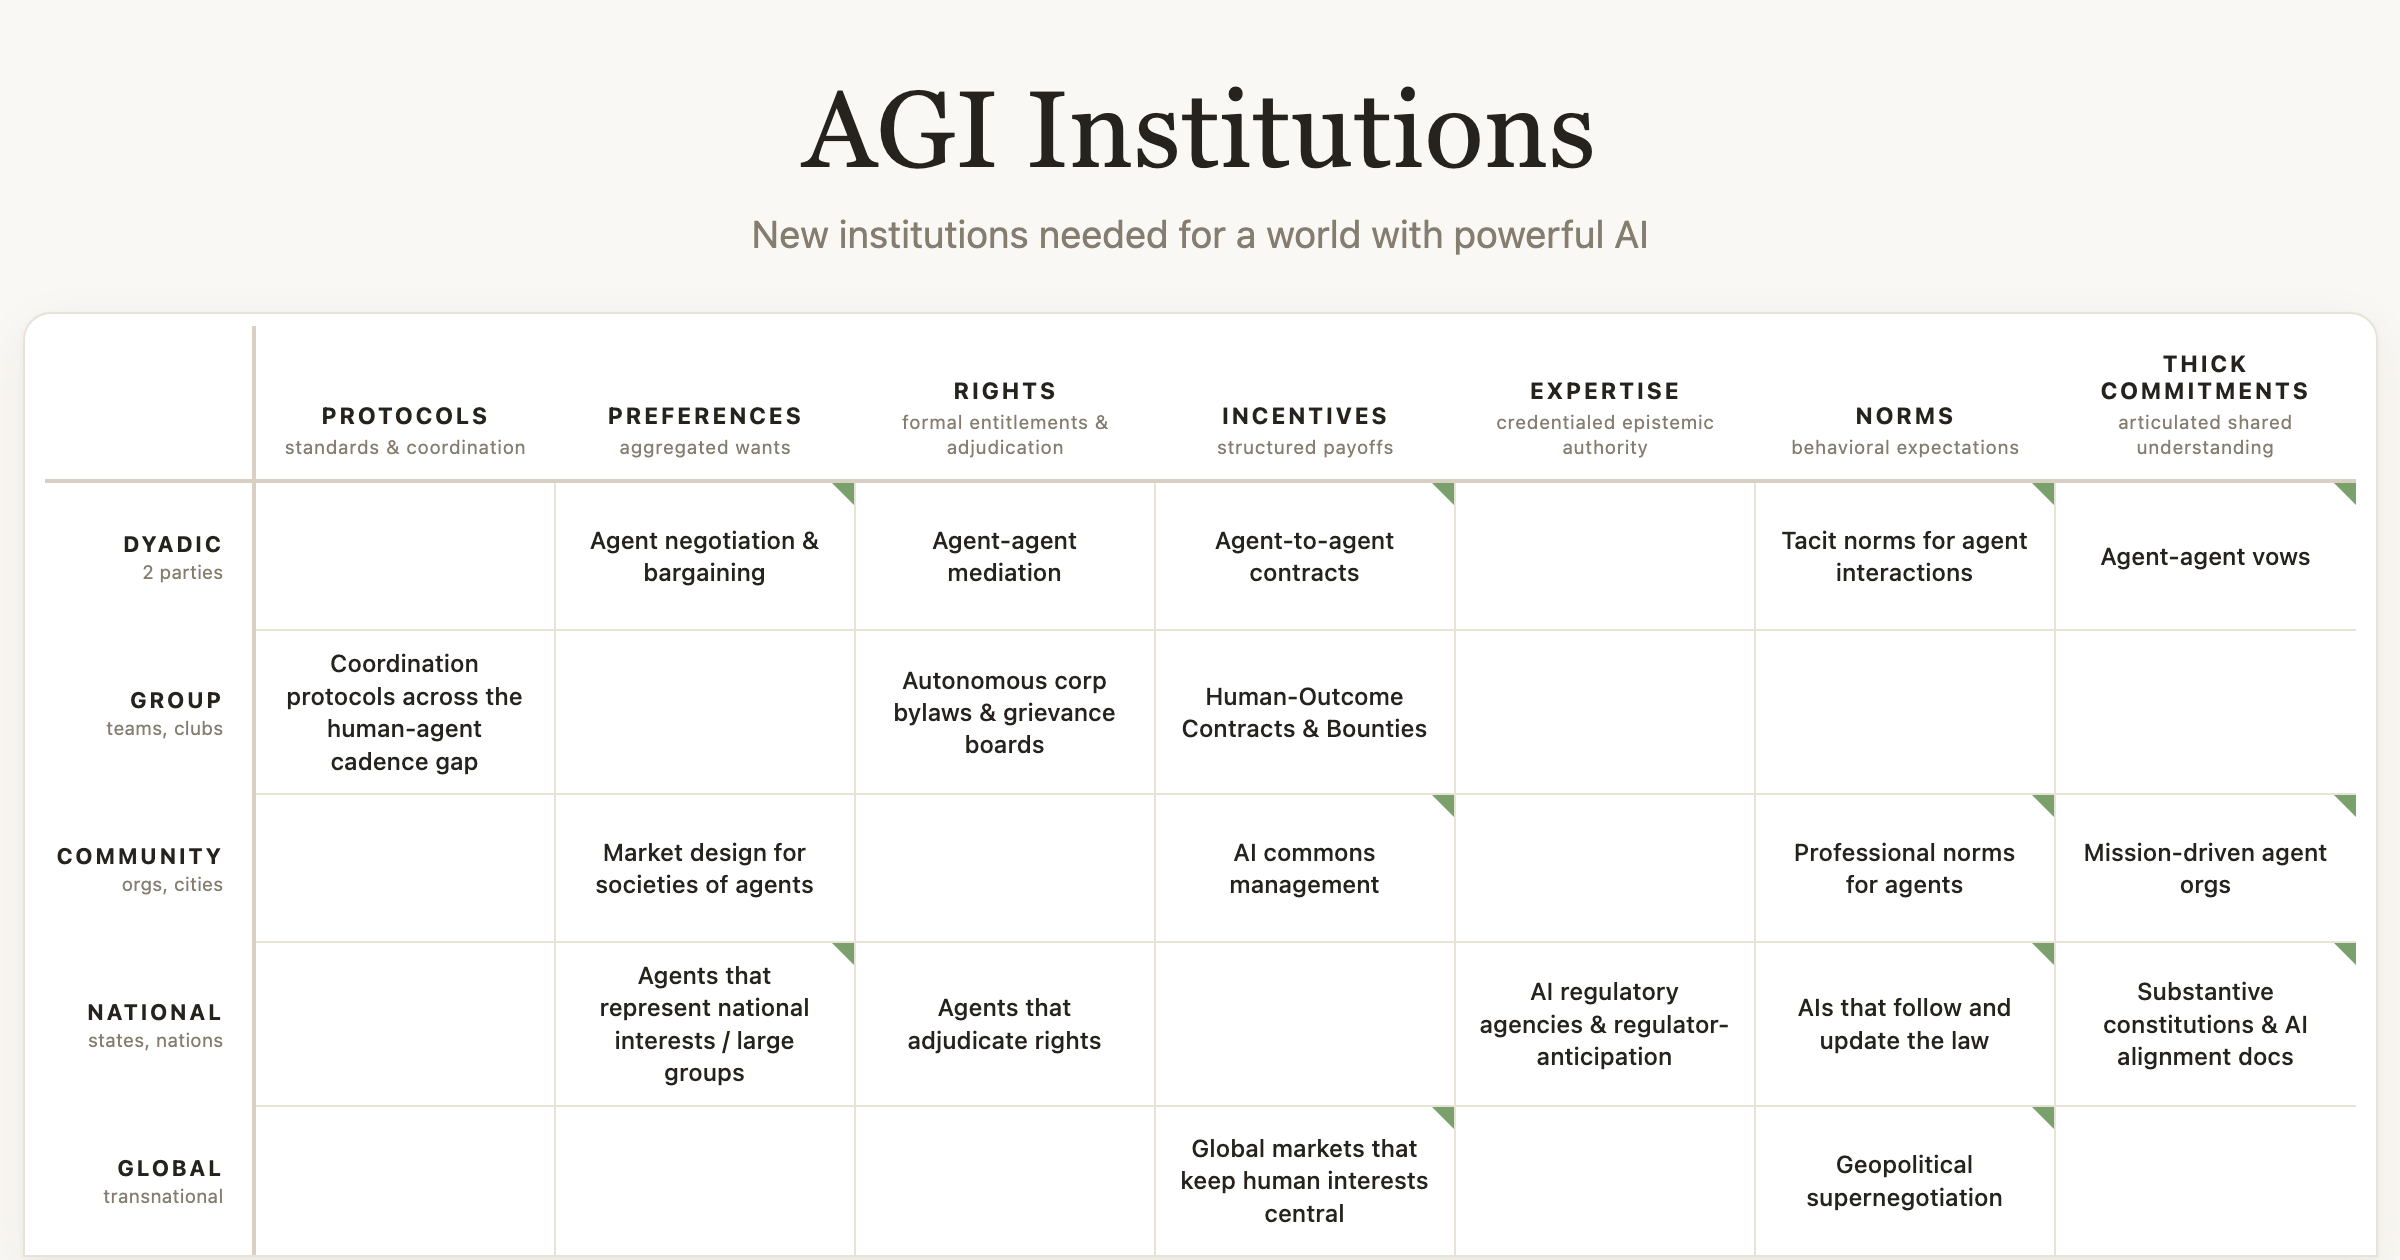
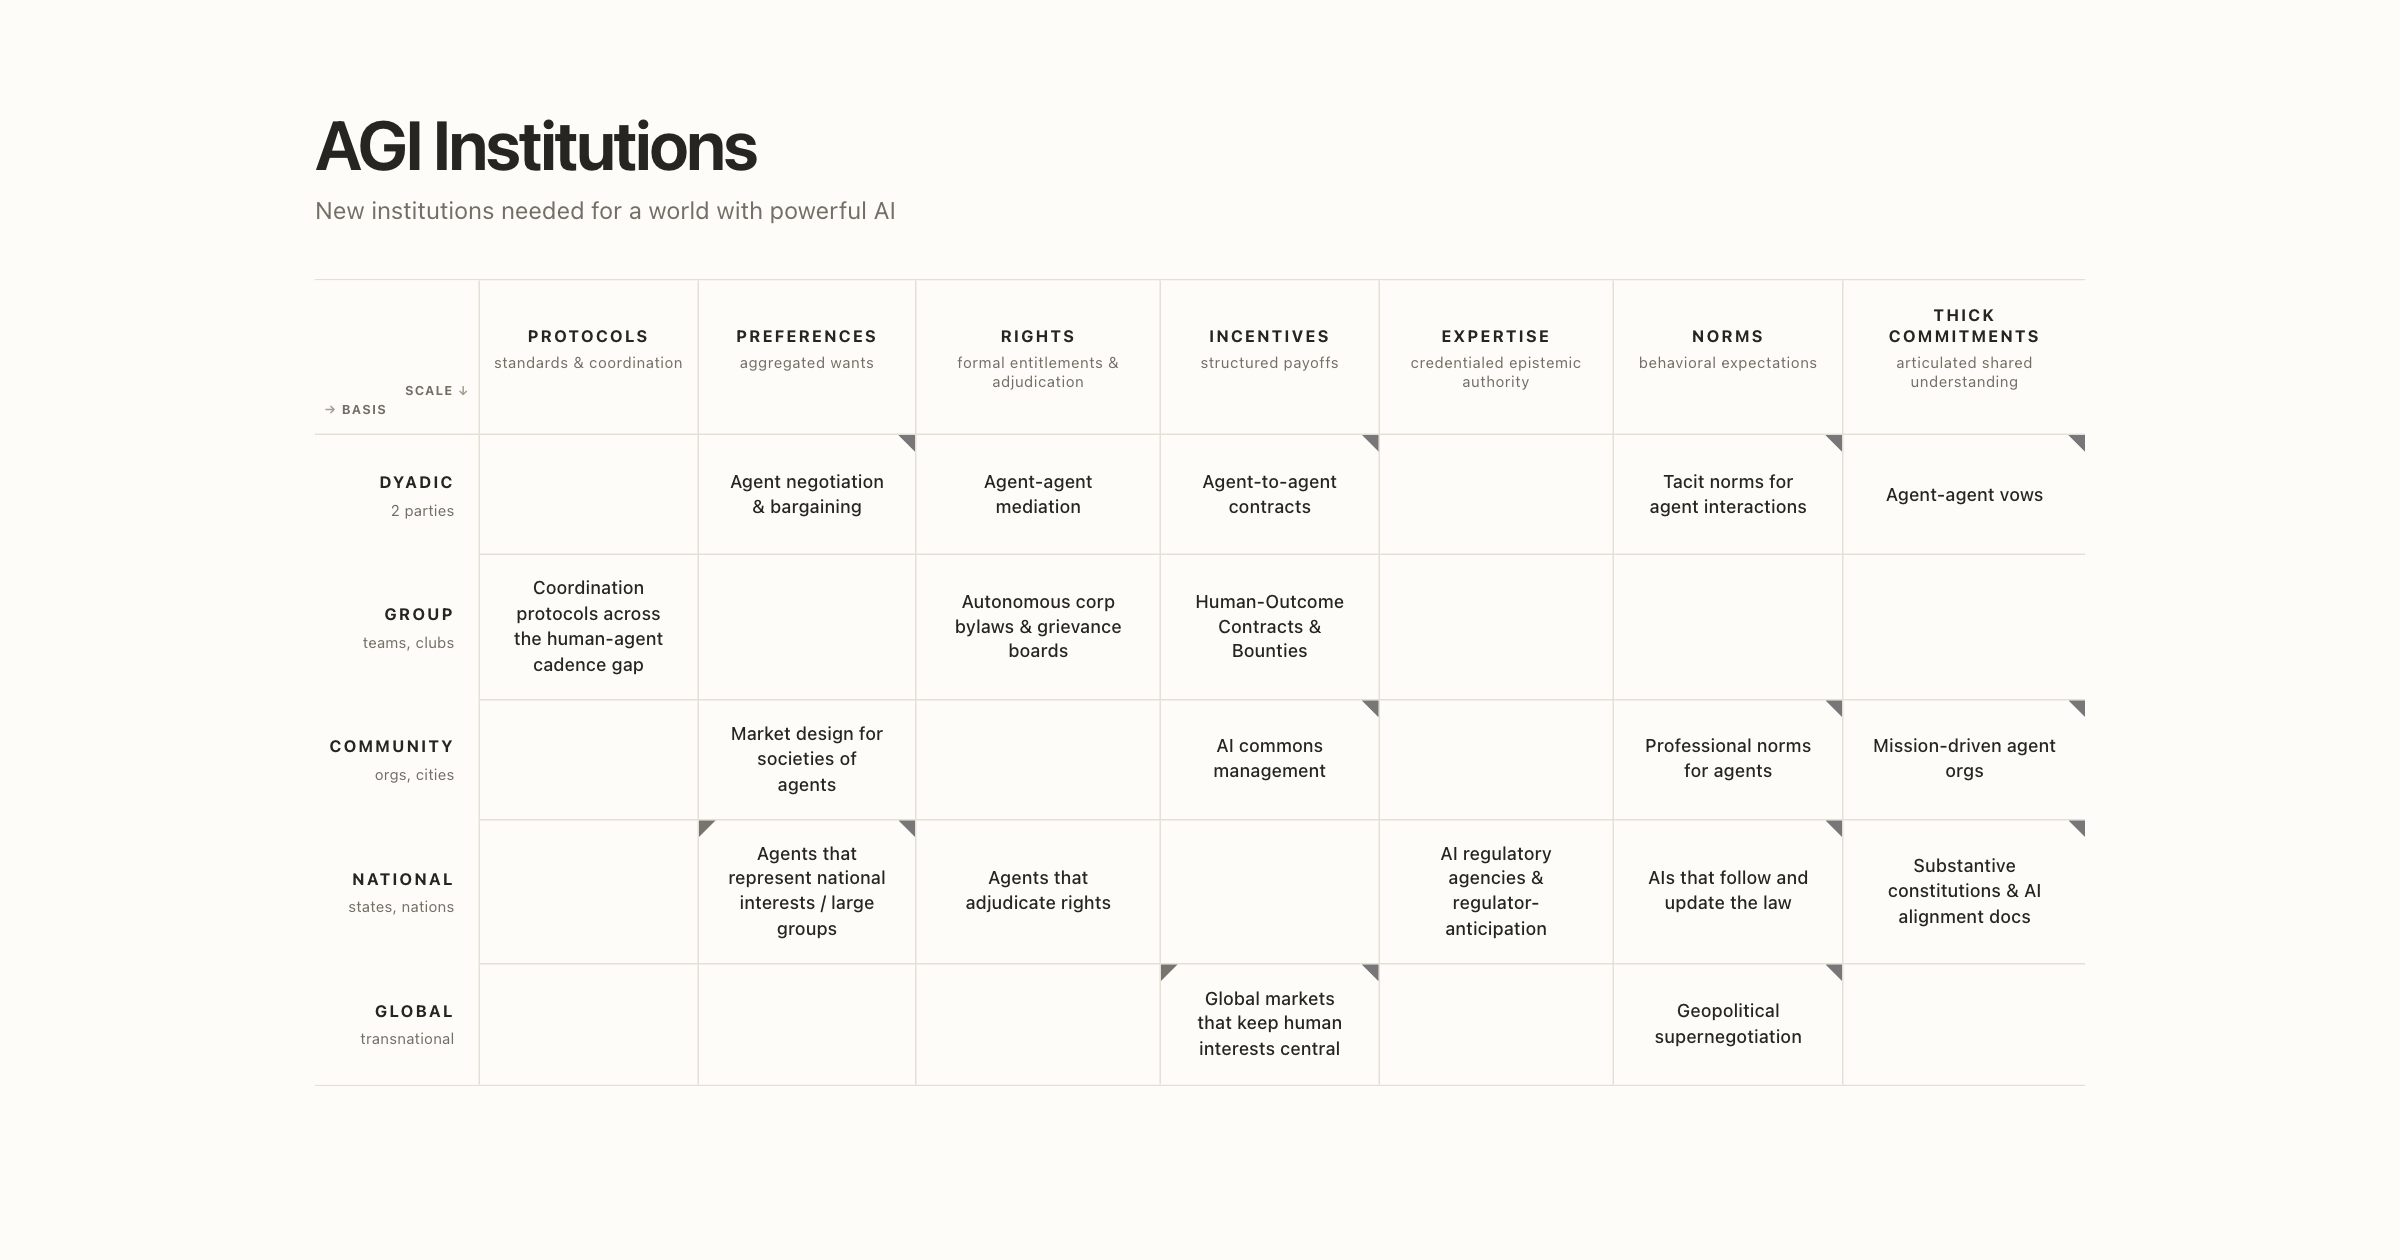
stuff

diff --git a/app/styles/legacy.css b/app/styles/legacy.css
@@ -2343,26 +2343,6 @@ details.curr-field.is-dimmed .curr-field-num:empty { display: none; }
   details.curr-field > summary.curr-field-summary > h2.curr-field-name { font-size: 24px; }
 }
 
-/* Site footer */
-.site-footer {
-  margin-top: 56px;
-  padding: 24px 0;
-  text-align: center;
-  font-size: 13px;
-  color: var(--faint);
-}
-
-.site-footer a {
-  color: var(--muted);
-  text-decoration: underline;
-  text-decoration-color: var(--line-strong);
-  text-underline-offset: 3px;
-}
-
-.site-footer a:hover {
-  color: var(--ink);
-}
-
 /* ── Print / PDF export ───────────────────────────────────────────── */
 
 @media print {
@@ -2390,7 +2370,6 @@ details.curr-field.is-dimmed .curr-field-num:empty { display: none; }
   }
 
   .controls,
-  .site-footer,
   .detail-back,
   .detail-footer,
   .rail-footer {

diff --git a/app/routes/curriculum.tsx b/app/routes/curriculum.tsx
@@ -2,7 +2,6 @@ import { useEffect } from "react";
 import type { Route } from "./+types/curriculum";
 import { buildCurriculum } from "../lib/curriculum.server";
 import { initCurriculum } from "../lib/curriculum-init";
-import { SiteFooter } from "../components/Controls";
 import { OG_IMAGE_META, SITE_NAME, SITE_ORIGIN } from "../lib/constants";
 import { getAuthorizedAdminSession } from "../lib/auth.server";
 import { ComingSoon } from "../components/ComingSoon";
@@ -40,7 +39,6 @@ export default function Curriculum({ loaderData: d }: Route.ComponentProps) {
         className="curr-layout"
         dangerouslySetInnerHTML={{ __html: d.innerHtml }}
       />
-      <SiteFooter />
     </>
   );
 }

diff --git a/app/routes/researchers.tsx b/app/routes/researchers.tsx
@@ -2,7 +2,6 @@ import { isRouteErrorResponse } from "react-router";
 import type { Route } from "./+types/researchers";
 import { getCommunity, type Researcher } from "../lib/researchers.server";
 import { ResearcherCard } from "../components/ResearcherCard";
-import { SiteFooter } from "../components/Controls";
 import { CommunityHeader } from "../components/CommunityHeader";
 import { SITE_NAME, SITE_ORIGIN } from "../lib/constants";
 import { getAuthorizedAdminSession } from "../lib/auth.server";
@@ -82,7 +81,6 @@ export default function Researchers({ loaderData: d }: Route.ComponentProps) {
           people={d.friends}
         />
       </div>
-      <SiteFooter />
     </>
   );
 }

diff --git a/app/routes/theory-of-change.tsx b/app/routes/theory-of-change.tsx
@@ -3,7 +3,6 @@ import type { Route } from "./+types/theory-of-change";
 import { readDataFile } from "../lib/content.server";
 import { renderMarkdown } from "../lib/render.server";
 import { esc, escapeHtml } from "../lib/markdown";
-import { SiteFooter } from "../components/Controls";
 import { OG_IMAGE_META, SITE_NAME, SITE_ORIGIN } from "../lib/constants";
 import { staticContentHeaders } from "../lib/cache.server";
 
@@ -92,7 +91,6 @@ export default function TheoryOfChange({ loaderData: d }: Route.ComponentProps) 
           <div dangerouslySetInnerHTML={{ __html: d.sectionsHtml }} />
         </div>
       </div>
-      <SiteFooter />
     </>
   );
 }

diff --git a/app/routes/researcher-profile.tsx b/app/routes/researcher-profile.tsx
@@ -2,7 +2,6 @@ import { Link, data } from "react-router";
 import type { Route } from "./+types/researcher-profile";
 import { getResearcher } from "../lib/researchers.server";
 import { Highlight } from "../components/ResearcherCard";
-import { SiteFooter } from "../components/Controls";
 import { SITE_NAME, SITE_ORIGIN } from "../lib/constants";
 import { getAuthorizedAdminSession } from "../lib/auth.server";
 import { ComingSoon } from "../components/ComingSoon";
@@ -154,7 +153,6 @@ export default function ResearcherProfile({ loaderData }: Route.ComponentProps) 
           </section>
         )}
       </div>
-      <SiteFooter />
     </>
   );
 }

diff --git a/app/routes/human.tsx b/app/routes/human.tsx
@@ -1,7 +1,6 @@
 import type { Route } from "./+types/human";
 import { loadGridCells, loadHumanInstitutions } from "../lib/content.server";
 import { Grid } from "../components/Grid";
-import { SiteFooter } from "../components/Controls";
 import { useBodyClass } from "../lib/useBodyClass";
 import { OG_IMAGE_META, SITE_NAME, SITE_ORIGIN, TAB_META, TABS } from "../lib/constants";
 import { staticContentHeaders } from "../lib/cache.server";
@@ -54,7 +53,6 @@ export default function Human({ loaderData }: Route.ComponentProps) {
           humanInstitutions={loaderData.humanInstitutions}
         />
       </div>
-      <SiteFooter />
     </>
   );
 }

diff --git a/app/routes/methods.tsx b/app/routes/methods.tsx
@@ -2,7 +2,6 @@ import { Link } from "react-router";
 import type { Route } from "./+types/methods";
 import { loadMethodCell } from "../lib/content.server";
 import { renderBody } from "../lib/render.server";
-import { SiteFooter } from "../components/Controls";
 import { useBodyClass } from "../lib/useBodyClass";
 import { GITHUB_REPO, OG_IMAGE_META, SITE_NAME, TABS, colName } from "../lib/constants";
 import { staticContentHeaders } from "../lib/cache.server";
@@ -79,7 +78,6 @@ export default function MethodsRoute({ loaderData: d }: Route.ComponentProps) {
           </a>
         </div>
       </div>
-      <SiteFooter />
     </>
   );
 }

diff --git a/app/routes/home.tsx b/app/routes/home.tsx
@@ -1,7 +1,6 @@
 import type { Route } from "./+types/home";
 import { loadGridCells } from "../lib/content.server";
 import { Grid } from "../components/Grid";
-import { SiteFooter } from "../components/Controls";
 import { useBodyClass } from "../lib/useBodyClass";
 import { OG_IMAGE_META, SITE_NAME, SITE_ORIGIN, TAB_META, TABS } from "../lib/constants";
 import { staticContentHeaders } from "../lib/cache.server";
@@ -44,7 +43,6 @@ export default function Home({ loaderData }: Route.ComponentProps) {
       <div id="grid-view">
         <Grid tabId="agi" cells={loaderData.cells} />
       </div>
-      <SiteFooter />
     </>
   );
 }

diff --git a/app/routes/problem-sets.tsx b/app/routes/problem-sets.tsx
@@ -3,7 +3,7 @@ import type { Route } from "./+types/problem-sets";
 import { loadCells } from "../lib/content.server";
 import { renderProblemSetBody } from "../lib/render.server";
 import { extractProblemSets } from "../lib/markdown";
-import { VisionMenu, SiteFooter } from "../components/Controls";
+import { VisionMenu } from "../components/Controls";
 import { staticContentHeaders } from "../lib/cache.server";
 import {
   VISIONS,
@@ -133,7 +133,6 @@ export default function ProblemSets({ loaderData: d }: Route.ComponentProps) {
           </ul>
         </div>
       </div>
-      <SiteFooter />
     </>
   );
 }

diff --git a/app/routes/human-cell.tsx b/app/routes/human-cell.tsx
@@ -1,7 +1,6 @@
 import type { Route } from "./+types/human-cell";
 import { buildCellDetail } from "../lib/detail.server";
 import { CellDetail } from "../components/CellDetail";
-import { SiteFooter } from "../components/Controls";
 import { useBodyClass } from "../lib/useBodyClass";
 import { OG_IMAGE_META, SITE_NAME, SITE_ORIGIN } from "../lib/constants";
 import { staticContentHeaders } from "../lib/cache.server";
@@ -31,7 +30,6 @@ export default function HumanCellRoute({ loaderData }: Route.ComponentProps) {
   return (
     <>
       <CellDetail data={loaderData} />
-      <SiteFooter />
     </>
   );
 }

diff --git a/app/routes/cell.tsx b/app/routes/cell.tsx
@@ -1,7 +1,6 @@
 import type { Route } from "./+types/cell";
 import { buildCellDetail } from "../lib/detail.server";
 import { CellDetail } from "../components/CellDetail";
-import { SiteFooter } from "../components/Controls";
 import { useBodyClass } from "../lib/useBodyClass";
 import { OG_IMAGE_META, SITE_NAME, SITE_ORIGIN } from "../lib/constants";
 import { staticContentHeaders } from "../lib/cache.server";
@@ -31,7 +30,6 @@ export default function CellRoute({ loaderData }: Route.ComponentProps) {
   return (
     <>
       <CellDetail data={loaderData} />
-      <SiteFooter />
     </>
   );
 }

diff --git a/app/styles/wiki.css b/app/styles/wiki.css
@@ -1062,7 +1062,6 @@ td.has-theory::before { border-color: #77736d transparent transparent transparen
 .curr-main a:hover { color: var(--ink); text-decoration-color: var(--ink); }
 .impact-dot.filled { background: var(--accent); border-color: var(--accent); }
 .about-stage-num { background: var(--muted); border-color: var(--muted); }
-.site-footer { width: 100%; color: #999; }
 
 /* Detail sections use one rule—the summary's—not a short heading rule plus a
    second full-width divider. Empty challenge shells disappear entirely. */
